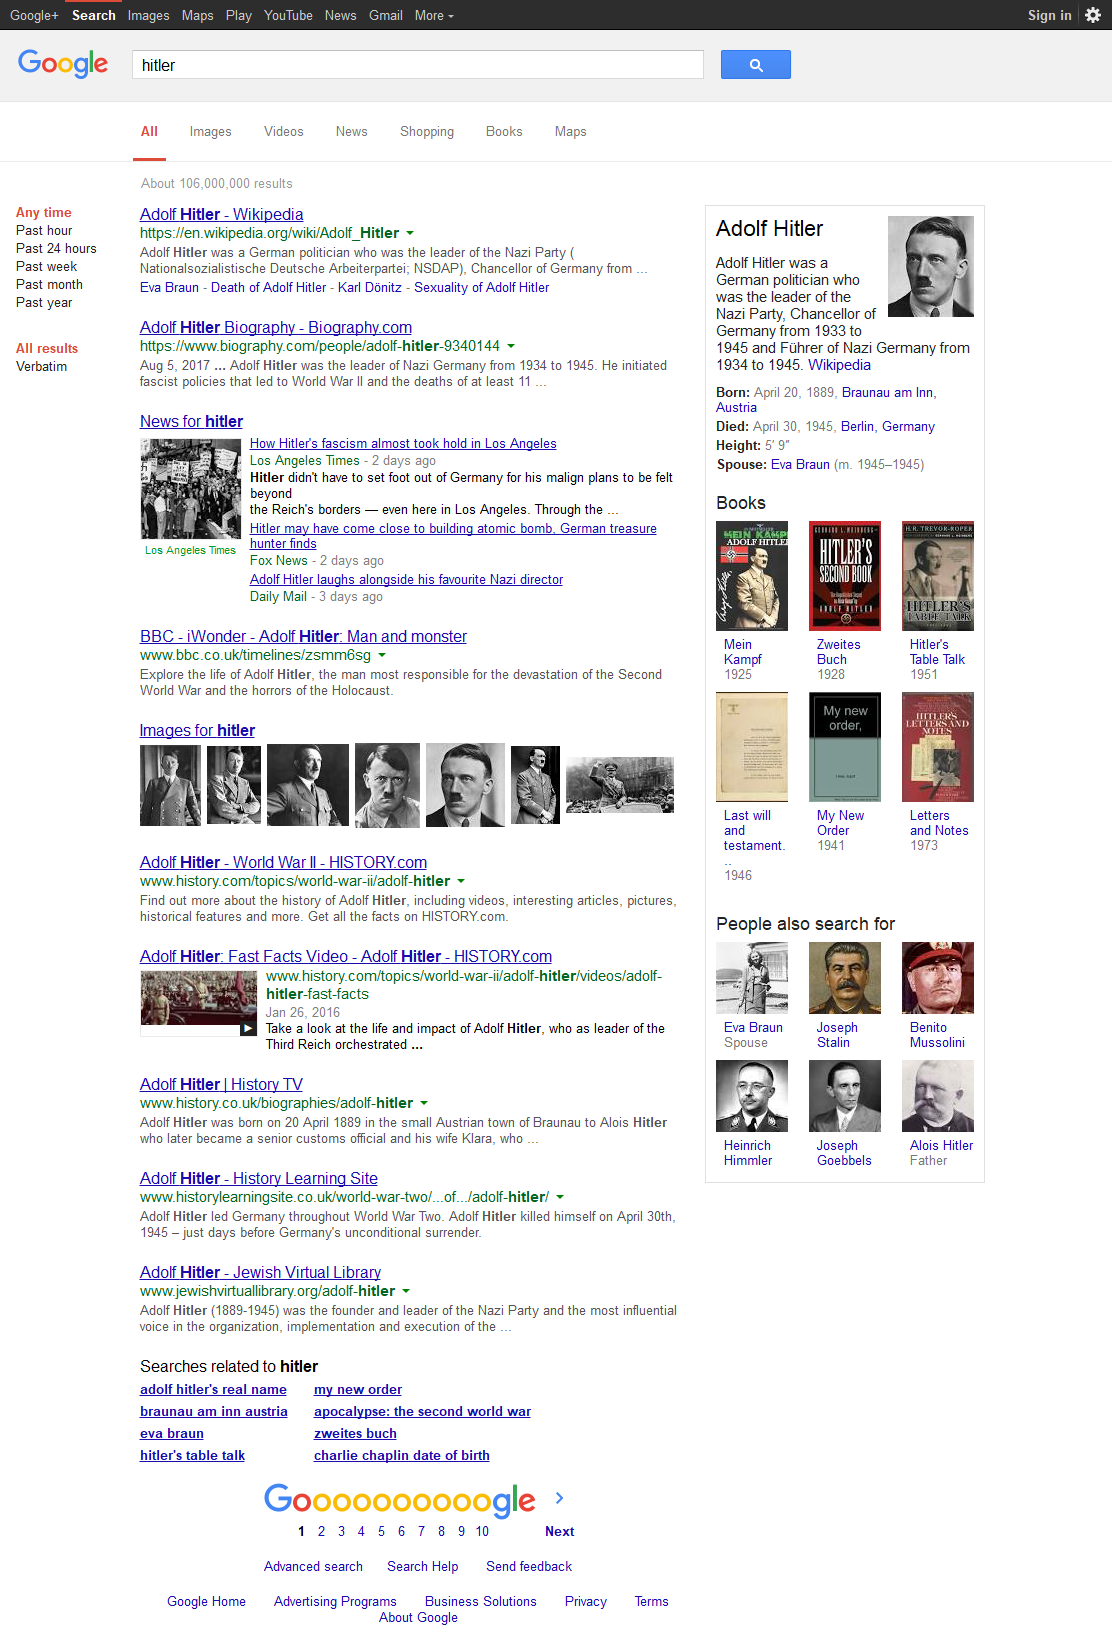
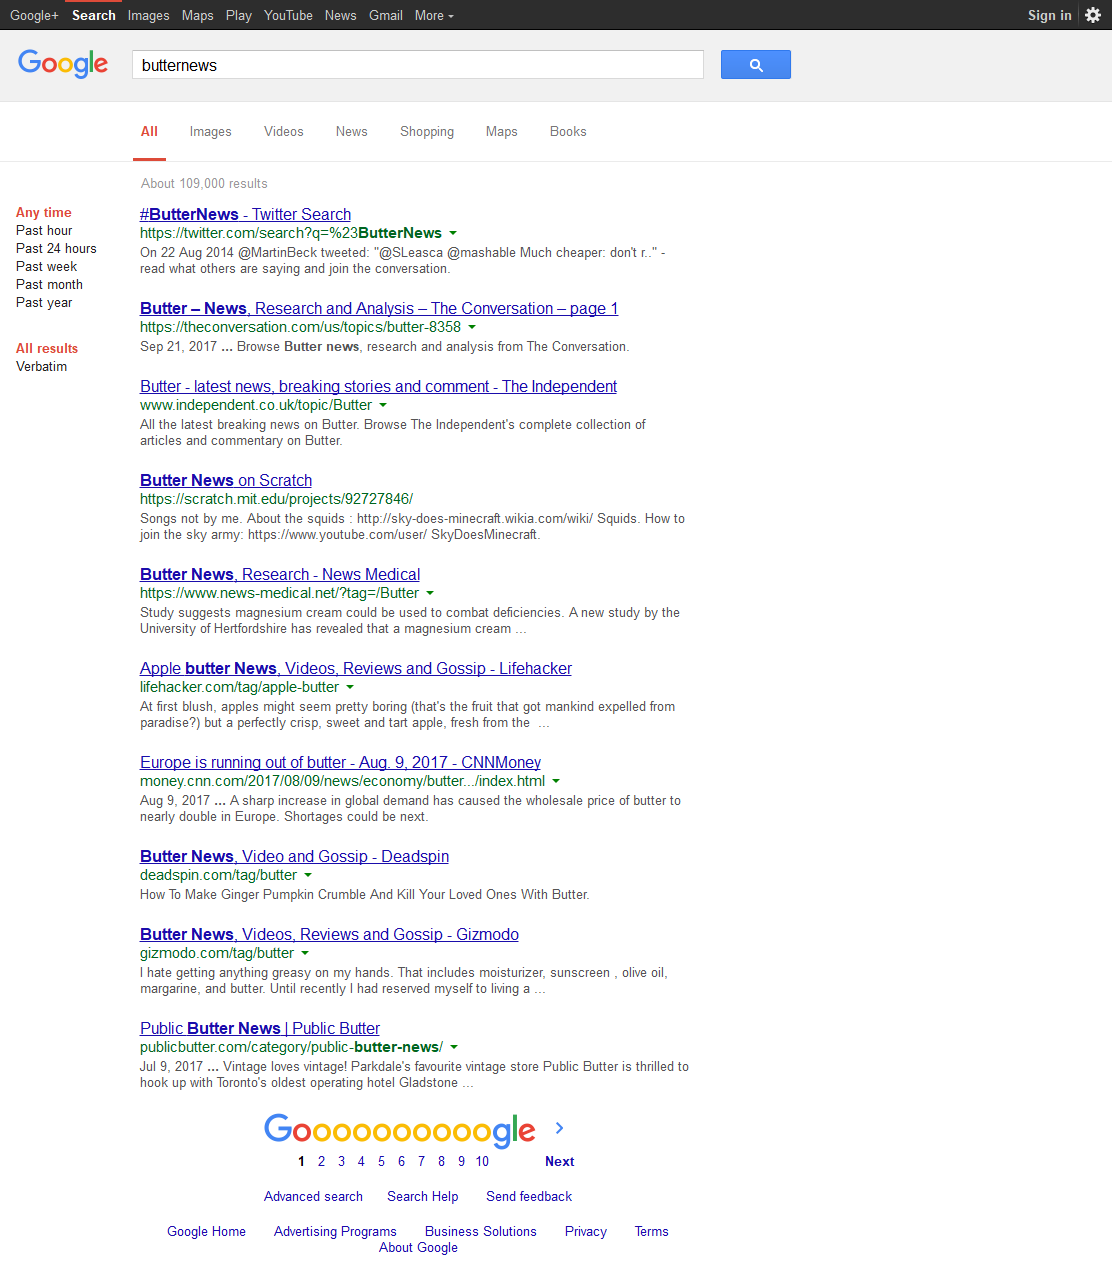
Got it to only look up news! Now need to go through pages

diff --git a/templates/Website.html b/templates/Website.html
@@ -1,19 +1,31 @@
 <!doctype html>
+
 <html>
     <head>
         <title>Fair & Balanced News</title>
-        <link rel="stylesheet" href="{{ url_for('static', filename='style.css') }}"></link>
+        <meta charset=utf-8> 
     </head>
     <body>
-        {% from "_formhelpers.html" import render_field %}
-
-        <h1 style="text-align: center;">Fair & Balanced News</h1>
+        <h1 style='text-align: center;'>Fair & Balanced News</h1>
         <div style="width:500px; margin: 0 auto">
-            <h5>What news do you want to search for?</h5>
-            <form method=post action="/results" style="text-align: center;">
+            <h5 style='text-align: center;'>What news do you want to search for?</h5>
+            <form method=post action="/" style="text-align: center;">
                 <input type="text" id="inputString" name="inputString"/>
                 <input type=submit value='Search' name='search_btn'>
             </form>
+            <br>
+            
+            <table align="center" border="1">
+                <tr>
+                    <th>Most Popular Liberal View</th>
+                    <th>Most Popular Conservative View</th>
+                </tr>
+                <tr>
+                    <td style='text-align: center;'>{{ conservativeURL }}</td>
+                    <td style='text-align: center;'>{{ liberalURL }}</td>
+                </tr>
+
+            </table>
         </div>
     </body>
 </html>

diff --git a/Website.html b/Website.html
@@ -1,0 +1,11 @@
+<html>
+                            <body>
+                                <table align="center" border="1">
+                                    <tr>
+                                        <th>Most Popular Liberal View</th>
+                                        <th>Most Popular Conservative View</th>
+                                    </tr>
+                                    <tr><td style='text-align: center;'>None</td><td style='text-align: center;'>None</td></tr>
+                                </table>
+                            </body>
+                        </html>

diff --git a/webdriver.py b/webdriver.py
@@ -1,13 +1,14 @@
 # found out how to not display web browser when using selenium here:
 # https://stackoverflow.com/questions/13287490/is-there-a-way-to-use-phantomjs-in-python
 
-# TODO: Look at pp. 258 - 275 for further information regarding Flask-based web apps
-# TODO: link website's search bar to inputString
+# TODO: Look at pp. 264 - 275 for further information regarding Flask-based web apps
+# TODO: 
 from flask import Flask, render_template, request
 from wtforms import Form, TextAreaField, validators
 import time
 from selenium import webdriver
 from selenium.webdriver.common.keys import Keys
+from string import Template
 
 app = Flask(__name__)
 
@@ -19,32 +20,35 @@ def index():
     form = SearchForm(request.form)
     return render_template('Website.html', form=form)
 
-@app.route('/results', methods=['POST'])
+@app.route('/', methods=['POST'])
 def results():
     form = SearchForm(request.form)
     if request.method == 'POST' and form.validate():
         inputString = request.form['inputString']
-        #return render_template('results.html', name=name) do not want to send results to a separate page...
 
         driver = webdriver.PhantomJS()  # Creates an invisible browser
         driver.get('https://google.com/') # Navigates to Google.com
 
         searchBarInput = driver.find_element_by_name('q') # Assigns variable to Google Search bar
         if inputString != '':
-            searchBarInput.send_keys(inputString) # what you are searching for
+            searchBarInput.send_keys(inputString + " news") # what you are searching for
             searchBarInput.send_keys(Keys.RETURN) # Hit <RETURN> so Google begins searching
             time.sleep(1) # sleep for a bit so the results webpage will be rendered
 
             # TODO: scrape first two websites that are in the top 10 news websites
             #       (top 10 according to http://blog.feedspot.com/usa_news_websites/ 's metrics)
             urls = driver.find_elements_by_css_selector('h3.r a')
-            conservativeURL = None
-            liberalURL = None
+            conservativeURL = ' '
+            liberalURL = ' '
+            test = None
+            # TODO: Make it go to the next page and continue mining until 
+            #while conservativeURL != ' ' and liberalURL != ' ':
             for url in urls:
                 # TODO: scrape according to each website's layout and then run ML algorithm
                 # TODO: check if one website is liberal and the other is conservative,
                 #       if not scape the next website until requirements are met
-                if conservativeURL and liberalURL:
+                test = url
+                if conservativeURL != ' ' and liberalURL != ' ':
                     break
                 print(url.get_attribute('href')[29:] + "\n\n")
                 if "cnn.com" in url.get_attribute('href')[29:]: # 1
@@ -67,10 +71,14 @@ def results():
                     pass
                 if "latimes.com" in url.get_attribute('href')[29:]: # 10
                     pass
+                
+            conservativeURL = test
+            liberalURL = test
+            
             driver.save_screenshot('screen.png') # save a screenshot to disk to see what we're looking at
         driver.quit()
 
     return render_template('Website.html', form=form)
 
 if __name__ == '__main__':
-    app.run(debug=True)
+    app.run(debug=True, use_reloader=True)
